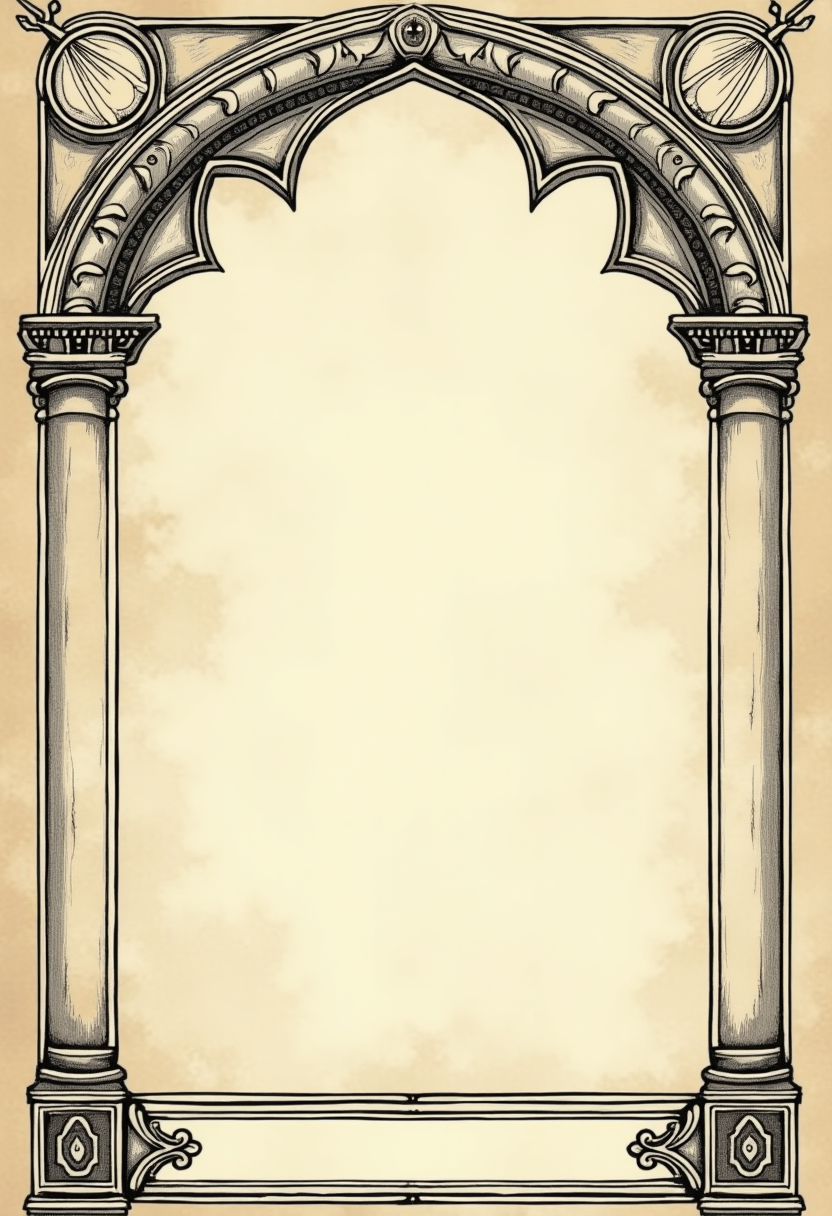
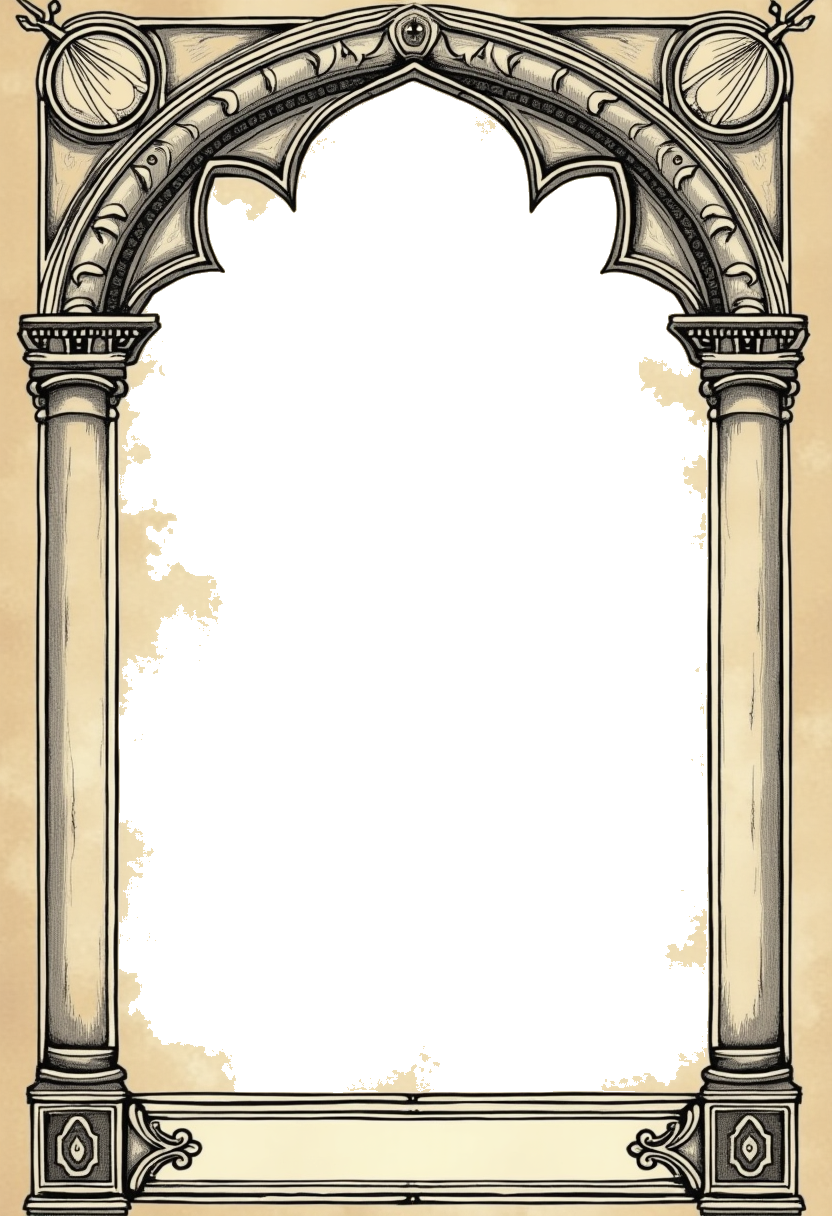
[claude] checkpoint: auto-save on session start

diff --git a/lobster-factory/infra/hetzner-phase1-core/apps/next-admin/app/tools/tarot/renderPrintCard.ts b/lobster-factory/infra/hetzner-phase1-core/apps/next-admin/app/tools/tarot/renderPrintCard.ts
@@ -1,43 +1,38 @@
 // Client-only: compose a print-ready tarot card PNG from AI artwork on a <canvas>.
 // Output: 898×1488 px = 76×126 mm @ 300 DPI (70×120 mm card + 3 mm bleed each side).
 //
-// Templates are AI-generated empty frame PNGs (public/tarot-frames/*.png): an ornate border
-// with a blank centre + blank title panel. We draw the frame, then composite the artwork into
-// the frame's blank-centre rect, then write the card name into the title panel.
+// 3 layers (bottom → top): base colour · generated artwork · transparent-centre frame PNG.
+// The frame PNGs (public/tarot-frames/*.png) have their blank centre flood-filled to transparent,
+// so the artwork shows through the centre while the ornate border + title panel overlay on top.
 
 import type { TarotCard } from "./cards";
 
 export const PRINT_W = 898;
 export const PRINT_H = 1488;
 
-export type CardTemplate =
-  | "classic-rw"
-  | "handdrawn"
-  | "medieval"
-  | "folk"
-  | "parchment"
-  | "gothic"
-  | "none";
+// Bottom base colour — only ever visible if artwork has transparency (it doesn't); keeps edges clean.
+const BASE = "#f4ecd8";
+// Artwork window (fraction of card). Generous on purpose: each frame masks the overflow to its own
+// transparent hole shape (e.g. the gothic arch), so one window fits every template.
+const ART = { x: 0.05, y: 0.05, w: 0.9, h: 0.8 };
+
+export type CardTemplate = "classic-rw" | "handdrawn" | "medieval" | "folk" | "parchment" | "gothic" | "none";
 
 interface FrameDef {
   key: CardTemplate;
   label: string;
-  /** file under /public/tarot-frames/ (omitted for "none"). */
-  file?: string;
-  /** blank-centre artwork rect, as fractions of the card. */
-  art?: { x: number; y: number; w: number; h: number };
-  /** vertical centre of the title text, as a fraction of card height. */
-  titleY?: number;
+  file?: string; // under /public/tarot-frames/ (omitted for "none")
+  titleY?: number; // vertical centre of the title text, as a fraction of card height
   titleColor?: string;
 }
 
 export const CARD_TEMPLATES: FrameDef[] = [
-  { key: "classic-rw", label: "經典 Rider-Waite", file: "classic-rw.png", art: { x: 0.085, y: 0.07, w: 0.83, h: 0.76 }, titleY: 0.915, titleColor: "#3a2a1a" },
-  { key: "handdrawn", label: "手繪復古", file: "handdrawn.png", art: { x: 0.1, y: 0.085, w: 0.8, h: 0.73 }, titleY: 0.895, titleColor: "#3a2a1a" },
-  { key: "medieval", label: "中世紀手抄本", file: "medieval.png", art: { x: 0.1, y: 0.085, w: 0.8, h: 0.73 }, titleY: 0.905, titleColor: "#3a2a1a" },
-  { key: "folk", label: "民俗樸拙", file: "folk.png", art: { x: 0.12, y: 0.12, w: 0.76, h: 0.67 }, titleY: 0.905, titleColor: "#5a3a2a" },
-  { key: "parchment", label: "古董羊皮卷", file: "parchment.png", art: { x: 0.105, y: 0.085, w: 0.79, h: 0.72 }, titleY: 0.905, titleColor: "#4a3420" },
-  { key: "gothic", label: "哥德聖窗", file: "gothic.png", art: { x: 0.19, y: 0.205, w: 0.62, h: 0.585 }, titleY: 0.89, titleColor: "#3a2a1a" },
+  { key: "classic-rw", label: "經典 Rider-Waite", file: "classic-rw.png", titleY: 0.915, titleColor: "#3a2a1a" },
+  { key: "handdrawn", label: "手繪復古", file: "handdrawn.png", titleY: 0.9, titleColor: "#3a2a1a" },
+  { key: "medieval", label: "中世紀手抄本", file: "medieval.png", titleY: 0.91, titleColor: "#3a2a1a" },
+  { key: "folk", label: "民俗樸拙", file: "folk.png", titleY: 0.92, titleColor: "#5a3a2a" },
+  { key: "parchment", label: "古董羊皮卷", file: "parchment.png", titleY: 0.91, titleColor: "#4a3420" },
+  { key: "gothic", label: "哥德聖窗", file: "gothic.png", titleY: 0.9, titleColor: "#3a2a1a" },
   { key: "none", label: "無框・純藝術" },
 ];
 
@@ -87,8 +82,7 @@ function toBlob(canvas: HTMLCanvasElement): Promise<Blob> {
 }
 
 /**
- * Render one print-ready card: the chosen frame template with the artwork composited into its
- * blank centre and the card name in the title panel. `template = "none"` → full-bleed artwork.
+ * Render one print-ready card with the 3-layer compose. `template = "none"` → full-bleed artwork.
  */
 export async function renderPrintCard(card: TarotCard, artDataUrl: string, template: CardTemplate = "classic-rw"): Promise<Blob> {
   const art = await loadImage(artDataUrl);
@@ -101,42 +95,27 @@ export async function renderPrintCard(card: TarotCard, artDataUrl: string, templ
   const def = FRAME_BY_KEY[template] ?? FRAME_BY_KEY["classic-rw"];
 
   // No-frame → full-bleed artwork.
-  if (!def.file || !def.art) {
+  if (!def.file) {
     drawCover(ctx, art, 0, 0, PRINT_W, PRINT_H);
     return toBlob(canvas);
   }
 
-  const ax = def.art.x * PRINT_W;
-  const ay = def.art.y * PRINT_H;
-  const aw = def.art.w * PRINT_W;
-  const ah = def.art.h * PRINT_H;
+  // Layer 1 — base colour.
+  ctx.fillStyle = BASE;
+  ctx.fillRect(0, 0, PRINT_W, PRINT_H);
 
-  // 1. artwork fills the centre window (slight overflow so the border edge later sits on the art)
-  const pad = 10;
-  ctx.save();
-  ctx.beginPath();
-  ctx.rect(ax - pad, ay - pad, aw + pad * 2, ah + pad * 2);
-  ctx.clip();
-  drawCover(ctx, art, ax - pad, ay - pad, aw + pad * 2, ah + pad * 2);
-  ctx.restore();
+  // Layer 2 — artwork in the central window (frame masks the overflow to its hole shape).
+  drawCover(ctx, art, ART.x * PRINT_W, ART.y * PRINT_H, ART.w * PRINT_W, ART.h * PRINT_H);
 
-  // 2. border ON TOP of the art — the frame with its blank centre cleared to transparent,
-  // so the ornate border + title panel always overlay the artwork (never get covered by it).
+  // Layer 3 — the transparent-centre frame on top (border + title panel overlay the artwork).
   const frame = await loadImage(`/tarot-frames/${def.file}`);
-  const overlay = document.createElement("canvas");
-  overlay.width = PRINT_W;
-  overlay.height = PRINT_H;
-  const octx = overlay.getContext("2d");
-  if (!octx) throw new Error("canvas_2d_unavailable");
-  octx.drawImage(frame, 0, 0, PRINT_W, PRINT_H);
-  octx.clearRect(ax, ay, aw, ah); // punch a transparent window where the art shows through
-  ctx.drawImage(overlay, 0, 0);
+  ctx.drawImage(frame, 0, 0, PRINT_W, PRINT_H);
 
-  // 3. card name in the title panel (drawn last → always crisp, never covered)
+  // Card name into the title panel (drawn last → always crisp).
   if (def.titleY) {
     ctx.textAlign = "center";
     ctx.textBaseline = "middle";
-    const px = fitFont(ctx, card.name, aw * 0.92, 42);
+    const px = fitFont(ctx, card.name, PRINT_W * 0.6, 40);
     ctx.font = `bold ${px}px Georgia, "Times New Roman", serif`;
     ctx.fillStyle = def.titleColor ?? "#2a2a1a";
     ctx.fillText(card.name, PRINT_W / 2, def.titleY * PRINT_H);

diff --git a/lobster-factory/packages/workflows/trigger.config.ts b/lobster-factory/packages/workflows/trigger.config.ts
@@ -76,6 +76,13 @@ export default defineConfig({
         if (hostingBaseUrl.trim()) out.LOBSTER_HOSTING_PROVIDER_BASE_URL = hostingBaseUrl.trim().replace(/\/$/, "");
         if (hostingPath.trim())    out.LOBSTER_HOSTING_PROVISION_PATH     = hostingPath.trim();
         if (hostingToken.trim())   out.LOBSTER_HOSTING_API_TOKEN          = hostingToken.trim();
+        // provision-staging (SSH + WP core + 5 plugins) measured at ~71s; the adapter's default
+        // 45s timeout fired first → create-wp-site returned blocked_hosting_configuration even
+        // though the site finished building server-side (run stuck "dispatched"). Raise to 110s
+        // (httpJsonStagingAdapter caps at 120s; Cloudflare's ~100s origin ceiling is the real bound,
+        // and 71s sits safely under it). Onboarding Stage 0 fix (2026-06-06).
+        const hostingTimeout = process.env.LOBSTER_HOSTING_HTTP_TIMEOUT_MS ?? "";
+        if (hostingTimeout.trim()) out.LOBSTER_HOSTING_HTTP_TIMEOUT_MS     = hostingTimeout.trim();
 
         // ── Infrastructure endpoints (ao-infrastructure-check) ───────────────
         // LOBSTER_TRIGGER_PUBLIC_API_URL: set by lobster-trigger-deploy.ps1 to the public

diff --git a/lobster-factory/packages/workflows/src/trigger/create-wp-site.ts b/lobster-factory/packages/workflows/src/trigger/create-wp-site.ts
@@ -205,6 +205,12 @@ export const createWpSite = task({
         outputSnapshot: { hosting },
         artifacts: [],
       });
+      // Defensive: a genuine block (adapter unconfigured, provider 5xx, or build exceeding the
+      // Cloudflare ~100s ceiling) must still release the originating ops_action_runs from
+      // "dispatched" — otherwise it hangs forever. Best-effort, gated on LOBSTER_ENABLE_DB_WRITES.
+      await markActionRunTerminal(input._dispatchedFromActionRunId, "failed", {
+        error_summary: hosting.message ?? "hosting provisioning blocked",
+      });
       return {
         status: "blocked_hosting_configuration" as const,
         input,

diff --git a/lobster-factory/packages/wp-bridge-plugin/includes/Content/BlockLibrary.php b/lobster-factory/packages/wp-bridge-plugin/includes/Content/BlockLibrary.php
@@ -144,8 +144,10 @@ final class BlockLibrary {
 			// Inner blocks must be serialised EXACTLY as WordPress does (newlines inside the comment
 			// delimiters), or the kadence/pane InnerBlocks validation fails ("unexpected content").
 			$content = "<!-- wp:paragraph -->\n<p>" . (string) ( $pane['content'] ?? '' ) . "</p>\n<!-- /wp:paragraph -->";
-			$pm     .= '<!-- wp:kadence/pane {"uniqueID":"' . $pid . '"} -->' . "\n"
-				. '<div class="wp-block-kadence-pane kt-accordion-pane kt-accordion-pane-' . $num . ' kt-pane' . $pid . '"><div class="kt-accordion-header-wrap"><button class="kt-blocks-accordion-header kt-acccordion-button-label-show" type="button"><span class="kt-blocks-accordion-title-wrap"><span class="kt-blocks-accordion-title">' . $title . '</span></span><span class="kt-blocks-accordion-icon-trigger"></span></button></div><div class="kt-accordion-panel"><div class="kt-accordion-panel-inner">' . $content . '</div></div></div>' . "\n"
+			// Current Kadence pane requires an "id" attribute + a "kt-accordion-pane-N" className, or
+			// the editor flags the block as invalid (verified against a recovered pane on soulful).
+			$pm .= '<!-- wp:kadence/pane {"id":' . $num . ',"uniqueID":"' . $pid . '","className":"kt-accordion-pane-' . $num . '"} -->' . "\n"
+				. '<div class="wp-block-kadence-pane kt-accordion-pane kt-accordion-pane-' . $num . ' kt-pane' . $pid . ' kt-accordion-pane-' . $num . '"><div class="kt-accordion-header-wrap"><button class="kt-blocks-accordion-header kt-acccordion-button-label-show" type="button"><span class="kt-blocks-accordion-title-wrap"><span class="kt-blocks-accordion-title">' . $title . '</span></span><span class="kt-blocks-accordion-icon-trigger"></span></button></div><div class="kt-accordion-panel"><div class="kt-accordion-panel-inner">' . $content . '</div></div></div>' . "\n"
 				. '<!-- /wp:kadence/pane -->';
 		}
 		return '<!-- wp:kadence/accordion {"uniqueID":"' . $accId . '","paneCount":' . $n . ',"startCollapsed":true} -->' . "\n"
